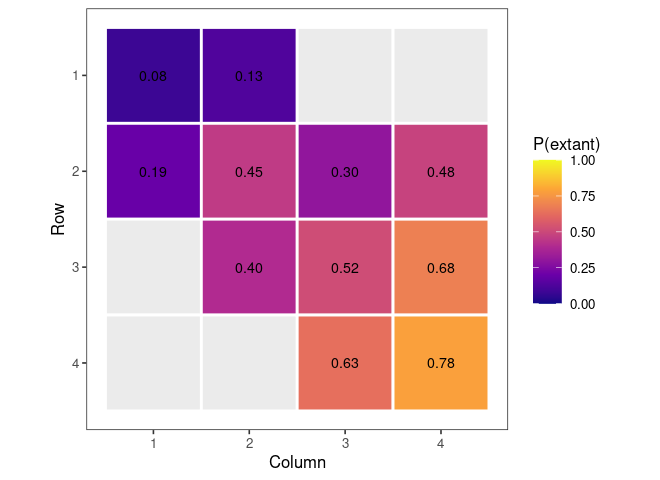
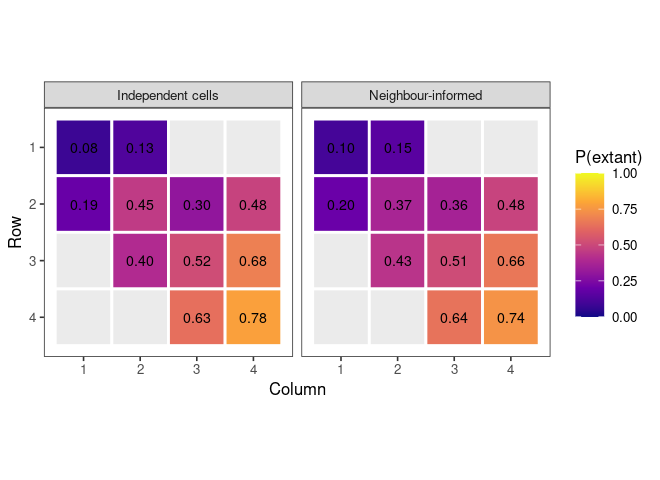
Add colonization inference and neighbour-informed spatial smoothing

diff --git a/README.md b/README.md
@@ -128,6 +128,16 @@ ggplot2::ggplot(posterior_df, ggplot2::aes(year, extant_probability)) +
 
 Spatial analyses use a matrix-like object where each cell contains a vector of sighting years for one site. Cells with no observations can be set to `NA`.
 
+By default, spatial cells are treated independently. SpaColExt also includes a simple neighbour-informed adjustment for cases where adjacent cells are expected to have similar extinction or persistence dynamics. This is not a full Bayesian spatial hierarchical model. It is a transparent spatial smoothing step applied after local posterior curves have been estimated:
+
+$$
+\text{logit}(p_i^{spatial}(t)) =
+(1 - \rho)\text{logit}(p_i(t)) +
+\rho \frac{1}{|N_i|}\sum_{j \in N_i}\text{logit}(p_j(t))
+$$
+
+where $p_i(t)$ is the local posterior probability in cell $i$, $N_i$ is the set of neighbouring cells, and $\rho$ controls neighbour influence. When $\rho = 0$, the result is the independent local posterior. Larger values borrow more information from adjacent cells.
+
 
 ``` r
 sighting_grid <- list(
@@ -144,23 +154,27 @@ spatial_posterior <- spatial_posterior_probability_extinction_varying_end_year(
   stop_year = 1930
 )
 
-final_probability <- matrix(
-  vapply(
-    as.vector(spatial_posterior),
-    function(x) {
-      if (length(x) == 1 && is.na(x)) return(NA_real_)
-      tail(x, 1)
-    },
-    numeric(1)
-  ),
-  nrow = 4,
-  ncol = 4
+spatial_posterior_smoothed <- smooth_spatial_posterior(
+  spatial_posterior,
+  rho = 0.35
 )
 
-grid_df <- data.frame(
-  row = rep(seq_len(nrow(final_probability)), times = ncol(final_probability)),
-  col = rep(seq_len(ncol(final_probability)), each = nrow(final_probability)),
-  extant_probability = as.vector(final_probability)
+independent_grid <- final_year_probability_grid(spatial_posterior)
+smoothed_grid <- final_year_probability_grid(spatial_posterior_smoothed)
+
+grid_df <- rbind(
+  data.frame(
+    row = rep(seq_len(nrow(independent_grid)), times = ncol(independent_grid)),
+    col = rep(seq_len(ncol(independent_grid)), each = nrow(independent_grid)),
+    extant_probability = as.vector(independent_grid),
+    model = "Independent cells"
+  ),
+  data.frame(
+    row = rep(seq_len(nrow(smoothed_grid)), times = ncol(smoothed_grid)),
+    col = rep(seq_len(ncol(smoothed_grid)), each = nrow(smoothed_grid)),
+    extant_probability = as.vector(smoothed_grid),
+    model = "Neighbour-informed"
+  )
 )
 
 ggplot2::ggplot(grid_df, ggplot2::aes(col, row, fill = extant_probability)) +
@@ -178,6 +192,7 @@ ggplot2::ggplot(grid_df, ggplot2::aes(col, row, fill = extant_probability)) +
     name = "P(extant)"
   ) +
   ggplot2::coord_equal() +
+  ggplot2::facet_wrap(~model) +
   ggplot2::theme_bw(base_size = 10) +
   ggplot2::theme(panel.grid = ggplot2::element_blank()) +
   ggplot2::labs(x = "Column", y = "Row")
@@ -188,7 +203,7 @@ ggplot2::ggplot(grid_df, ggplot2::aes(col, row, fill = extant_probability)) +
 <p class="caption">plot of chunk example-spatial</p>
 </div>
 
-This grid summarizes the posterior probability of persistence in the final year of the study period for each spatial cell. Empty cells represent sites without enough sightings.
+These grids summarize the posterior probability of persistence in the final year of the study period. The neighbour-informed version partially pools each cell with its rook neighbours. This can stabilize isolated cells with sparse observations, but it should be interpreted as spatial smoothing rather than proof of dispersal or local demographic coupling.
 
 ## Colonization by Time Reversal
 
@@ -285,6 +300,9 @@ visualize_priors_effects(
 - `posterior_probability_extinction_varying_end_year()`: posterior extant probabilities for a sequence of end years.
 - `posterior_probability_colonization_varying_year()`: posterior colonization probabilities using time reversal.
 - `spatial_posterior_probability_extinction_varying_end_year()`: applies the varying end-year workflow across spatial cells.
+- `make_grid_adjacency()`: creates a neighbour list for a regular grid.
+- `smooth_spatial_posterior()`: applies neighbour-informed smoothing to spatial posterior curves.
+- `final_year_probability_grid()`: extracts final-year probabilities for spatial plotting.
 - `plot_posterior_distribution()`: plots posterior extant probabilities through time.
 - `compute_posterior_c2022_extinction()`: posterior curve with optional informative priors.
 - `transform_and_reverse()`: helper for reversing sighting dates for colonization-oriented workflows.
